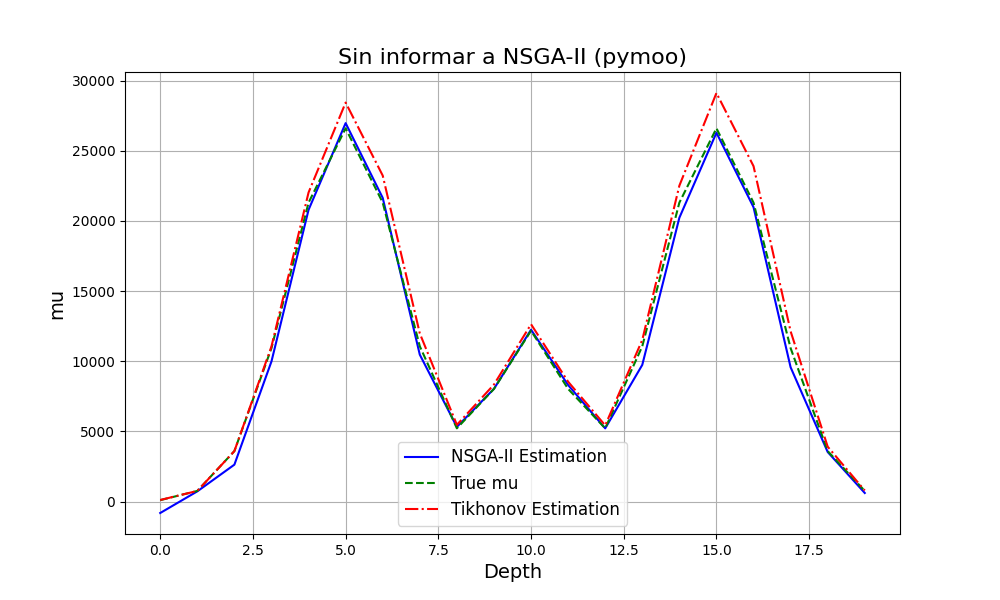
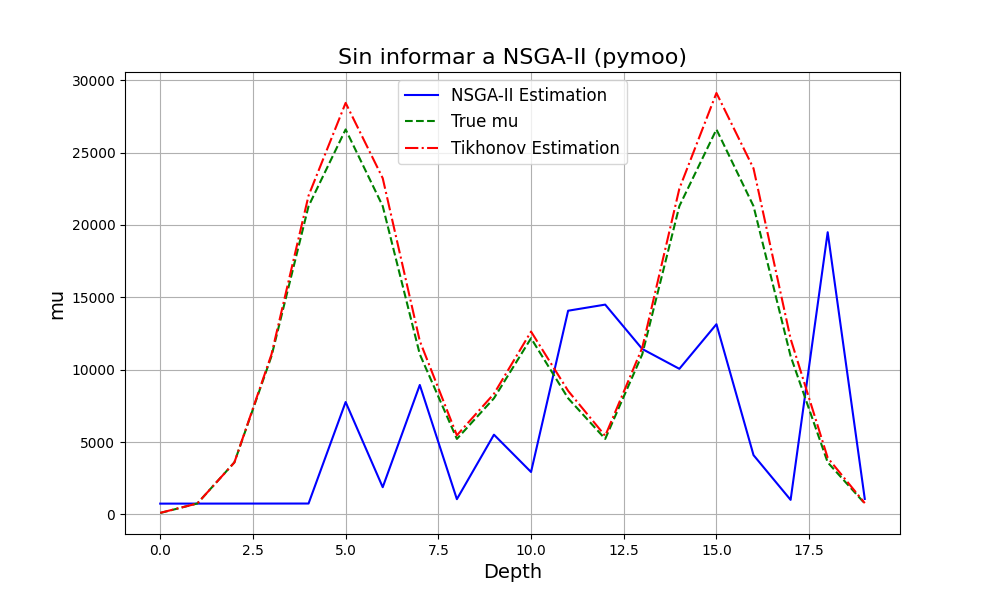
nsga me

diff --git a/NSGA_III_Baseline.py b/NSGA_III_Baseline.py
@@ -33,7 +33,7 @@ SIGNAL = generate_measurements(signal, MODEL, sigma=0)
 n_var = 20
 tikhonov_aprox = regularized_estimation(MODEL, SIGNAL, dim=1).reshape(n_var)  # Asegurarse de que sea un vector de una dimensión
 
-problem = ImageReconstructionProblem(MODEL, PROBE, SIGNAL, n_var, tikhonov_aprox=tikhonov_aprox)
+problem = ImageReconstructionProblem(MODEL, PROBE, SIGNAL, n_var, tikhonov_aprox=None)
 
 def binary_tournament(pop, P, **kwargs):
     # P define los torneos y los competidores
